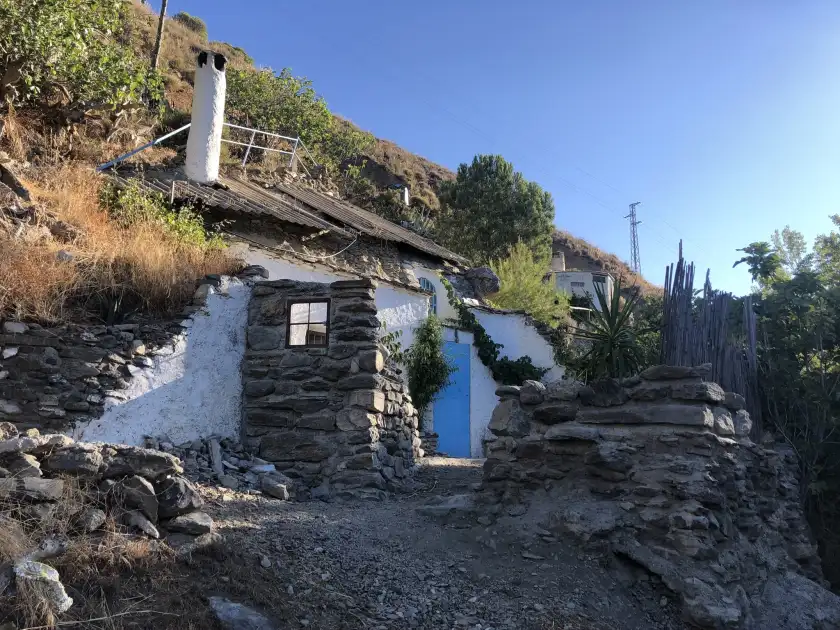
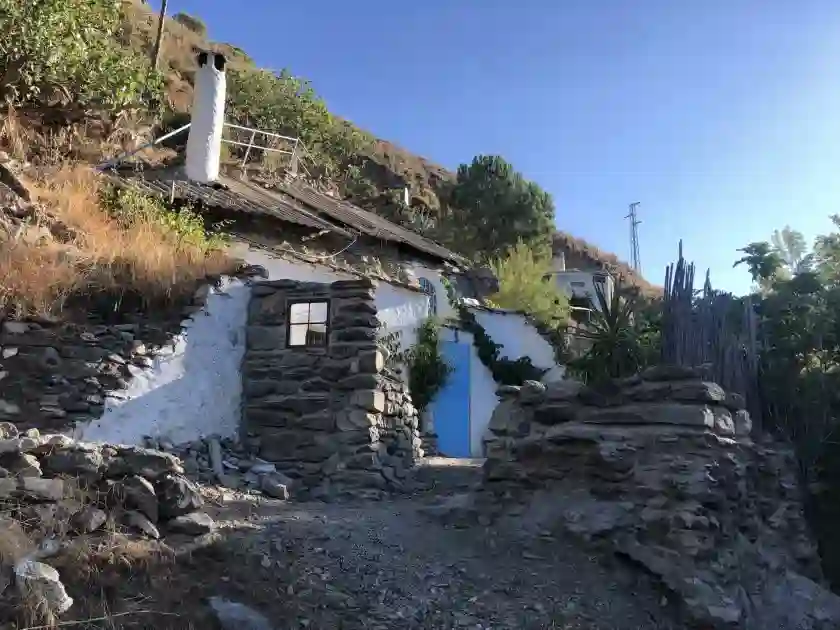
feat(*): Modified img

diff --git a/src/detalle-ruta.html b/src/detalle-ruta.html
@@ -118,7 +118,7 @@
               <li>Época recomendada: todas las épocas del año.</li>
             </ul>
             <img
-              src="images/information.png"
+              src="images/information.webp"
               class="info-image"
               loading="lazy"
               alt="more info"
@@ -127,12 +127,11 @@
           <img src="./images/play.png" alt="play video" loading="lazy" width="100%" height="100%" class="play">
           <figure class="embed-container">
             <iframe
+              loading="lazy"
               width="560"
               height="315"
               src="https://www.youtube.com/embed/bsbJ3xaOdpQ"
               title="YouTube video player"
-              allowfullscreen
-              loading="lazy"
             ></iframe>
             <figcaption>Video del sendero La Pavilla</figcaption>
           </figure>
